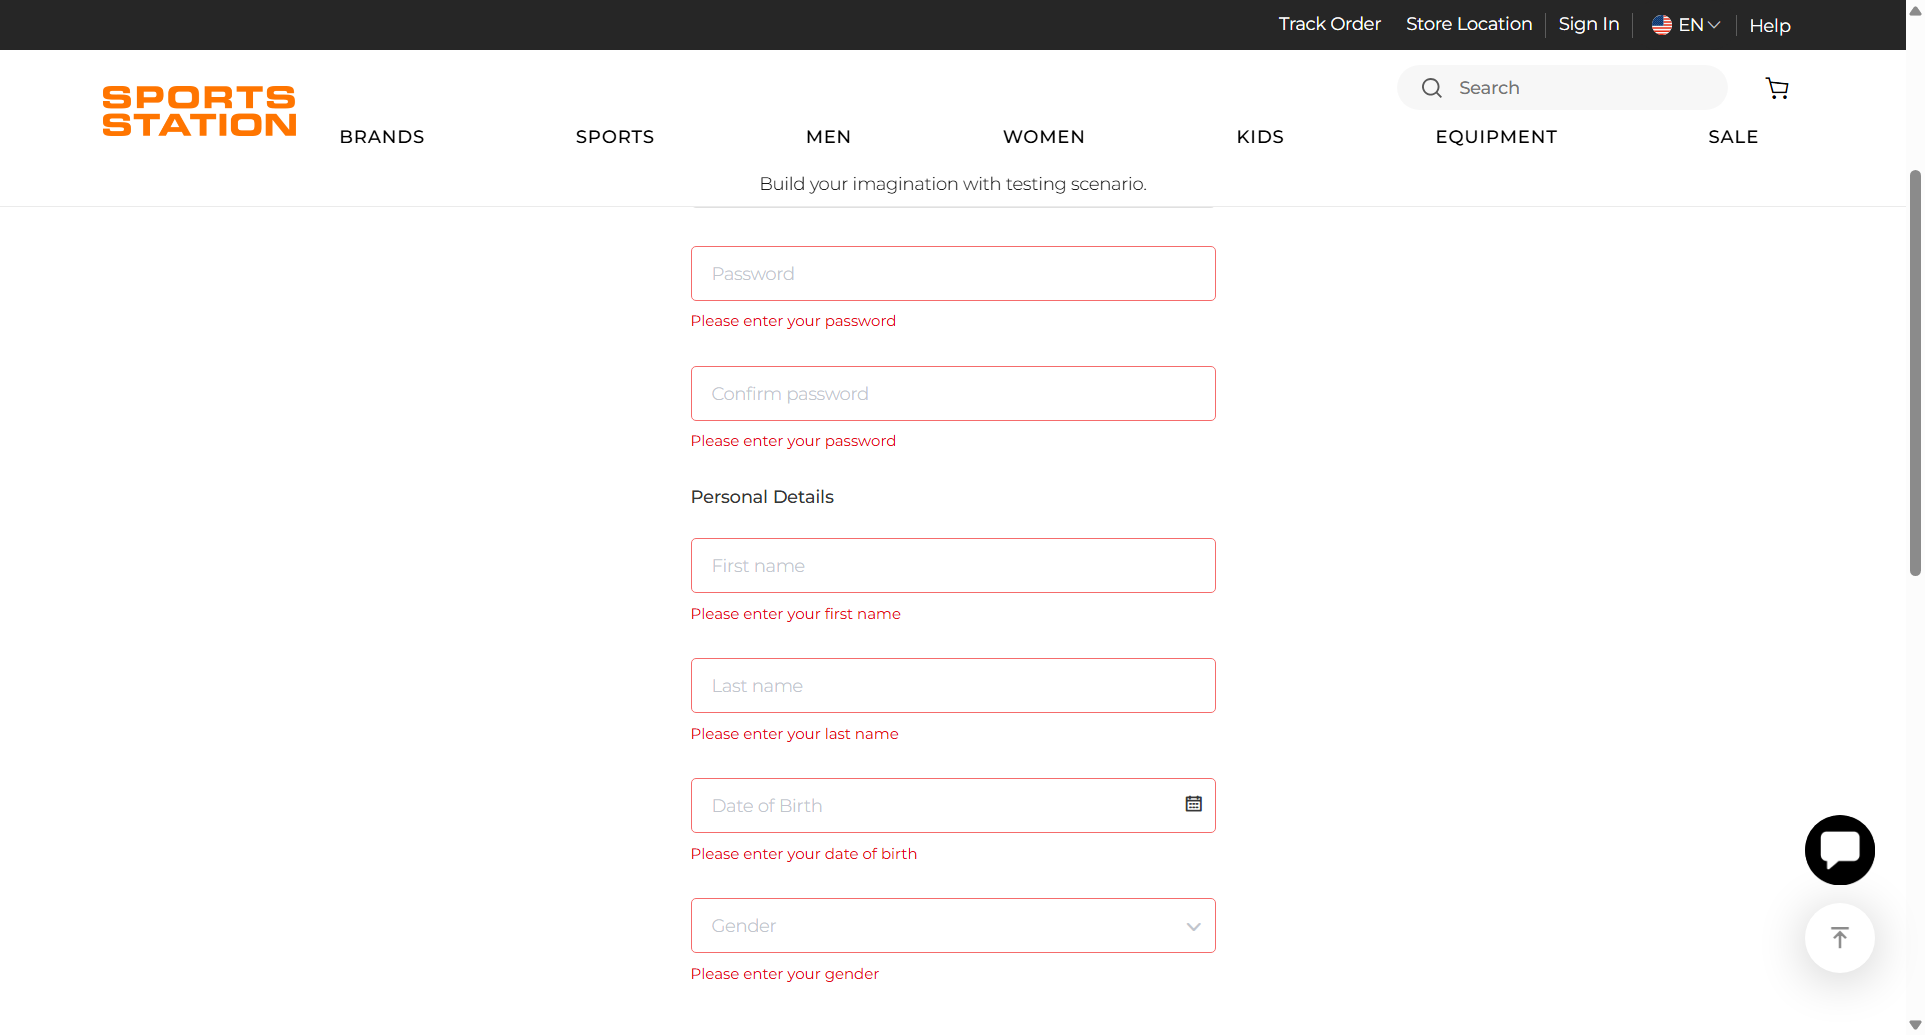
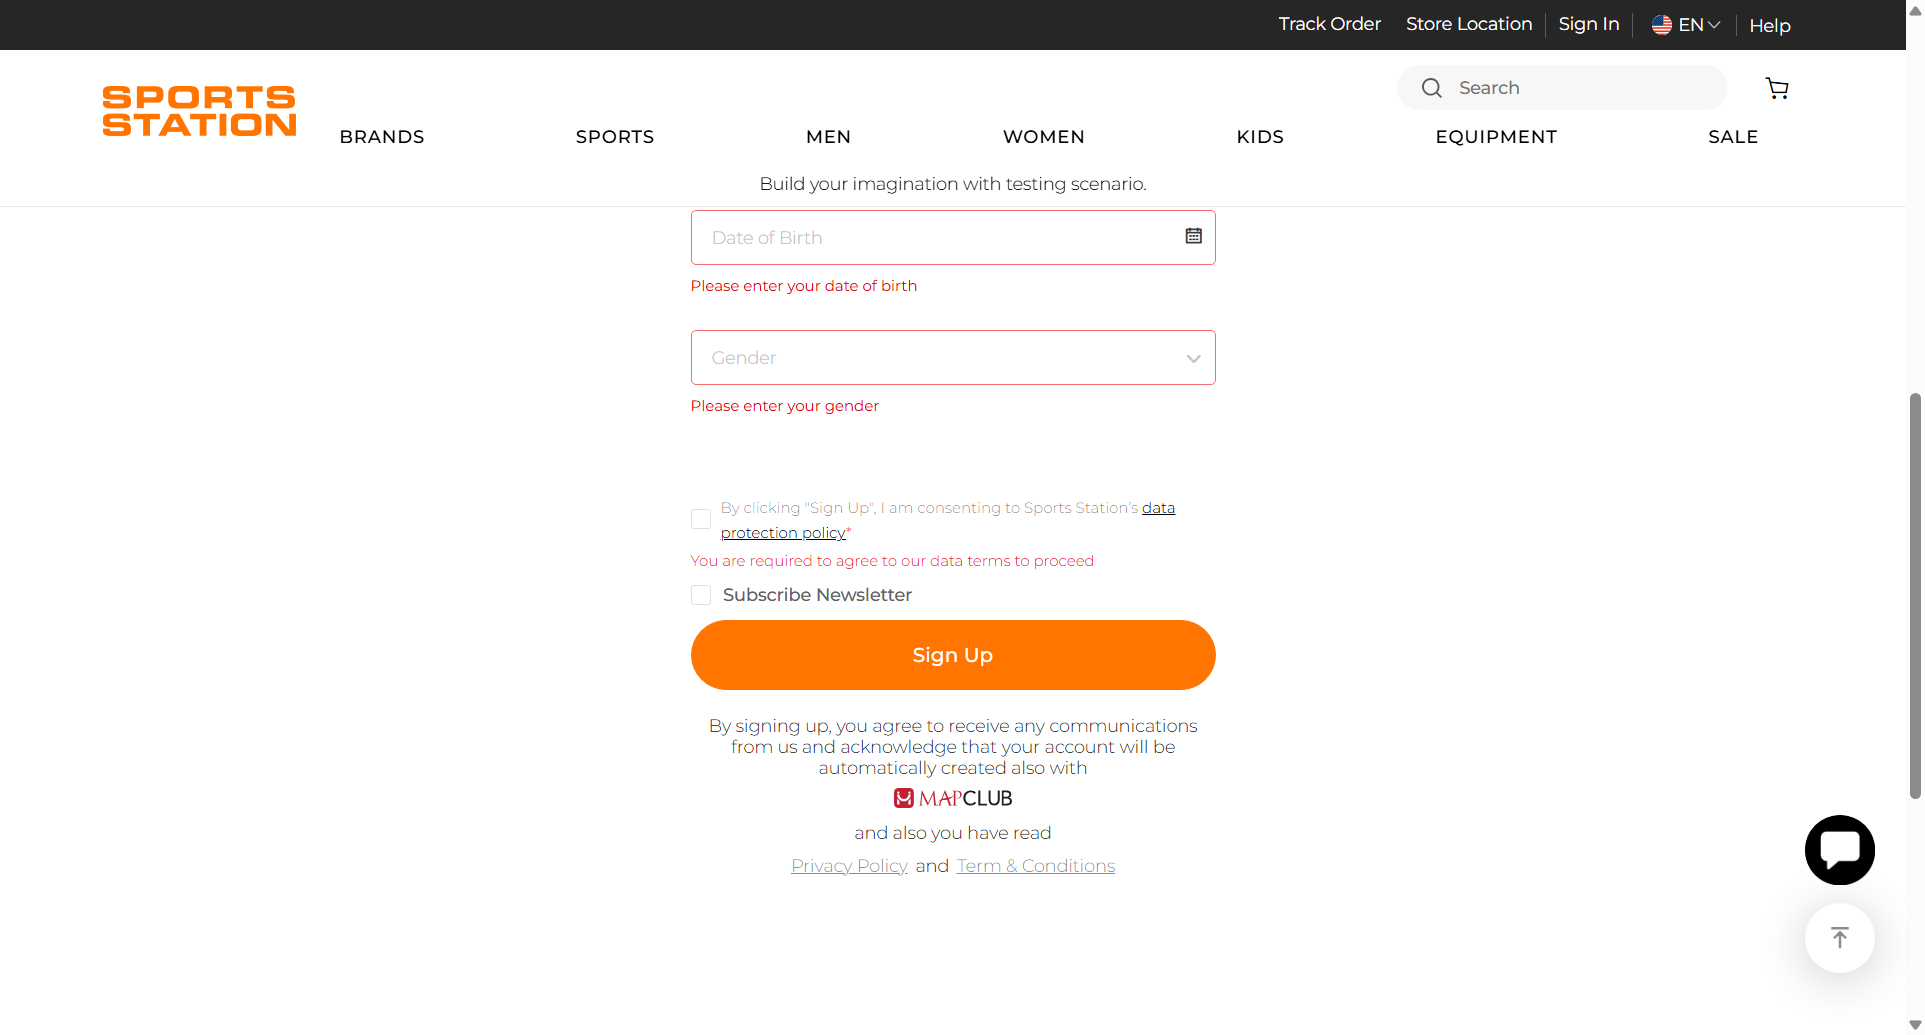
Delete Tescase

diff --git a/Test Suites/WEB/Authentication/Register.ts b/Test Suites/WEB/Authentication/Register.ts
@@ -95,11 +95,4 @@
       <testCaseId>Test Cases/WEB/Authentication/Registration/Negative/Negative - Register with invalid password</testCaseId>
       <usingDataBindingAtTestSuiteLevel>false</usingDataBindingAtTestSuiteLevel>
    </testCaseLink>
-   <testCaseLink>
-      <guid>d351da9b-54c7-4071-b1c9-637d15d23c8b</guid>
-      <isReuseDriver>false</isReuseDriver>
-      <isRun>true</isRun>
-      <testCaseId>Test Cases/WEB/Authentication/Registration/Negative/Negative - Wrong validation code</testCaseId>
-      <usingDataBindingAtTestSuiteLevel>false</usingDataBindingAtTestSuiteLevel>
-   </testCaseLink>
 </TestSuiteEntity>
